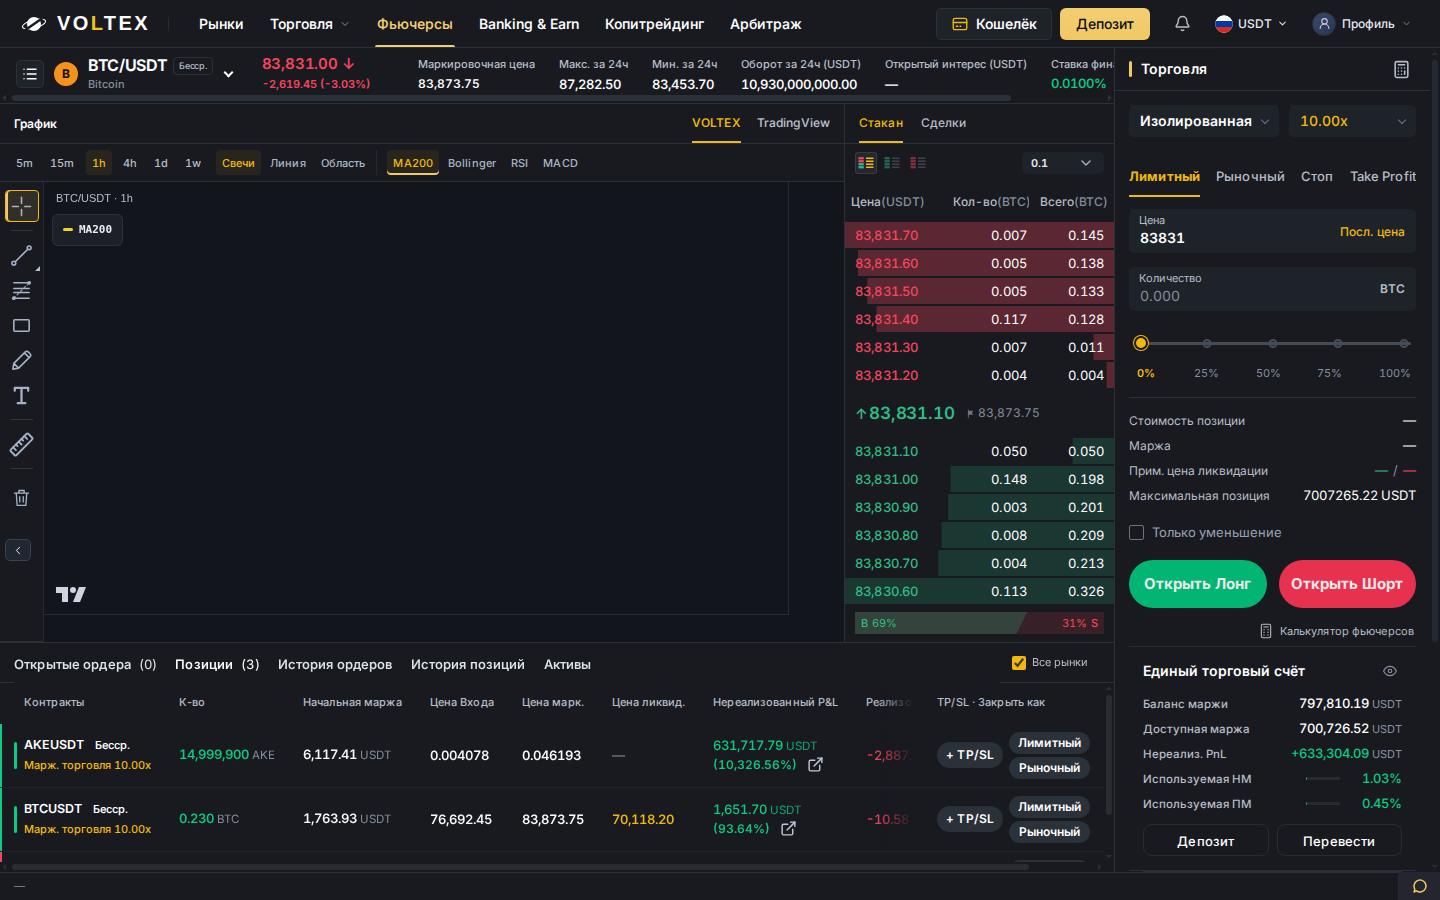
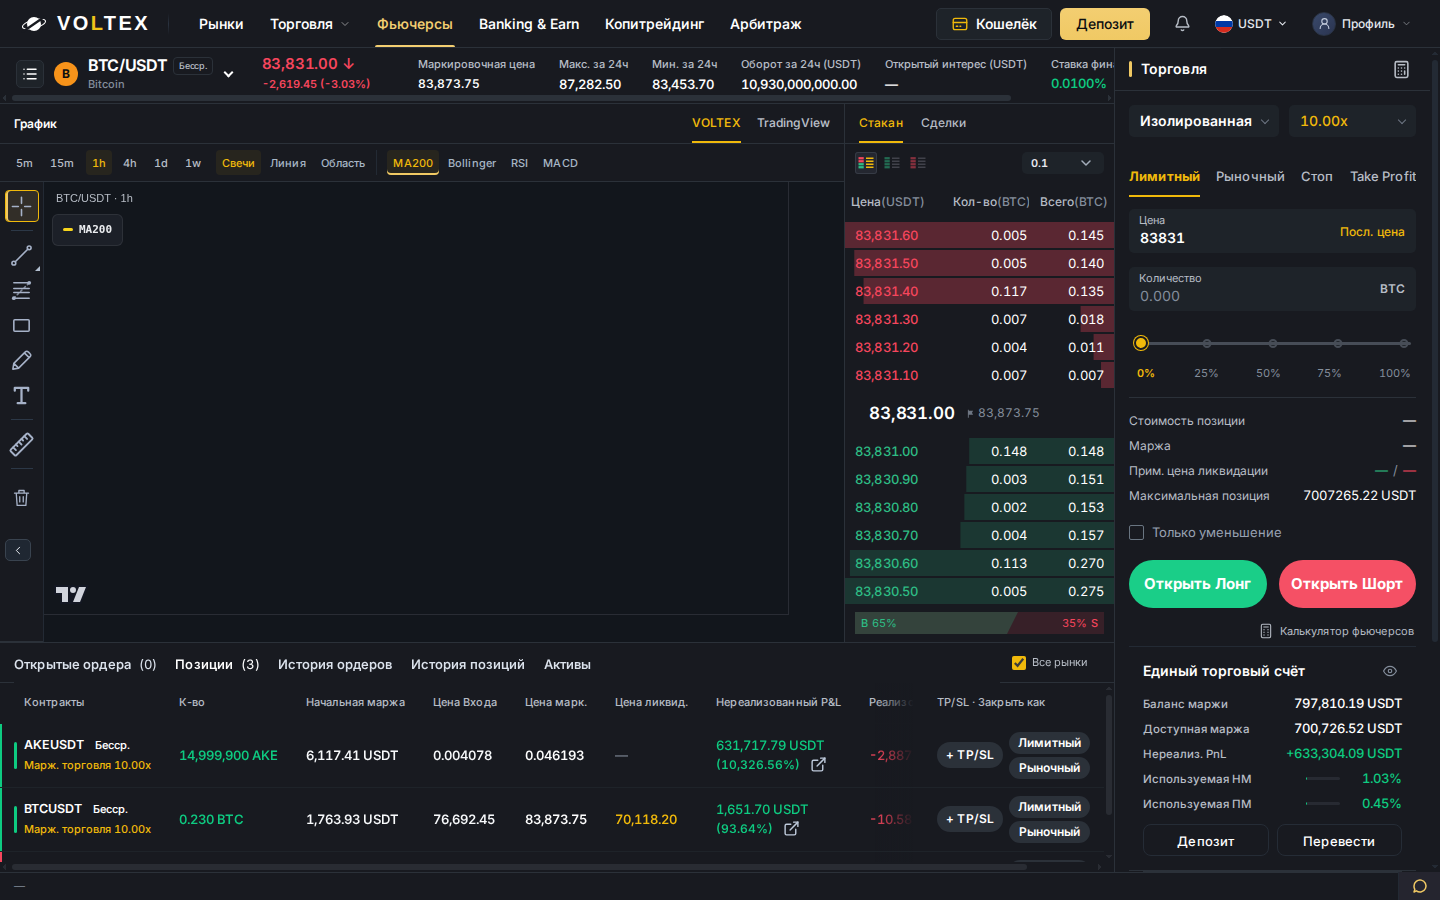
Units in their figure's colour; LONG/SHORT in the reference colours, never dimmed
Owner: not only the numbers — USDT too, and the buttons 1:1 with the
screenshot. Measured there: units share the number's colour and size;
LONG #1ace88, SHORT #f55065 at full strength with no quantity. Ours were
grey 11px units and #00c67c/#ff3453 at 90% opacity while disabled.

Claude-Session: https://claude.ai/code/session_01QYDaBPmAQT7kqxtv32nEHZ

diff --git a/frontend/src/pages/trade-terminal/ArchiveTerminalPreview.css b/frontend/src/pages/trade-terminal/ArchiveTerminalPreview.css
@@ -413,3 +413,17 @@
 #archive-terminal-preview { --text-primary:#ffffff; }
 #archive-terminal-preview :is(.reference-order-heading,.fcd-title) { color:var(--text-primary); }
 #archive-terminal-preview .rb-row > span:not(:first-of-type) { color:var(--text-primary); }
+/* Units take their figure's colour and size, as on the reference: «0.230 BTC»
+   green, «19,741.70 USDT» white, «2,102.4412 USDT» green — measured off the
+   owner's Bybit screenshot, the unit's glyphs match the number's. Ours were
+   a smaller tertiary grey (owner: «не тільки цифри контрасніші, але і usdt»). */
+#archive-terminal-preview :is(.futures-position-unit,.futures-account-stat .fa-unit,.fcd-unit) { color:inherit; font-size:inherit; font-weight:inherit; opacity:1; }
+#archive-terminal-preview .futures-positions-table :is(.futures-position-money,.futures-position-realized)[data-unit]::after { color:inherit; font-size:inherit; font-weight:inherit; opacity:1; }
+/* LONG / SHORT in the reference's colours, and never dimmed (owner: «кнопки
+   контрасніші, такі ж самі як на скріні 1:1»). Read off that screenshot:
+   #1ace88 and #f55065 with white 700 labels, full strength even with no
+   quantity entered. Ours showed #00c67c / #ff3453 at 90% opacity while
+   disabled. Disabled still refuses the click and keeps its cursor. */
+#archive-terminal-preview .fo-submitPair .buy { background:#1ace88; color:#fff; }
+#archive-terminal-preview .fo-submitPair .sell { background:#f55065; color:#fff; }
+#archive-terminal-preview .fo-submitPair button:disabled { opacity:1; }

diff --git a/frontend/src/lib/__tests__/futuresVisualPolish.test.ts b/frontend/src/lib/__tests__/futuresVisualPolish.test.ts
@@ -153,6 +153,21 @@ describe('5. text contrast at the reference level', () => {
     expect(CSS).not.toMatch(/#archive-terminal-preview \{[^}]*--archive-label:#fff/);
   });
 
+  it('gives units their figure\'s colour and size, and LONG / SHORT the reference colours at full strength', () => {
+    const units = CSS.match(/#archive-terminal-preview :is\(\.futures-position-unit,\.futures-account-stat \.fa-unit,\.fcd-unit\) \{([^}]*)\}/);
+    expect(units).not.toBeNull();
+    expect(units![1]).toContain('color:inherit');
+    expect(units![1]).toContain('font-size:inherit');
+    // The later rule wins: the last .buy / .sell / :disabled declarations in the sheet.
+    const last = (selector: string) => {
+      const all = [...CSS.matchAll(new RegExp(`(?:^|\\n)${selector.replace(/[.*+?^${}()|[\]\\]/g, '\\$&')} \\{([^}]*)\\}`, 'g'))];
+      return all[all.length - 1][1];
+    };
+    expect(last('#archive-terminal-preview .fo-submitPair .buy')).toContain('background:#1ace88');
+    expect(last('#archive-terminal-preview .fo-submitPair .sell')).toContain('background:#f55065');
+    expect(last('#archive-terminal-preview .fo-submitPair button:disabled')).toContain('opacity:1');
+  });
+
   it('brightens the terminal chart axis to the reference tone', () => {
     const chart = read('components/PriceChart.tsx');
     expect(chart).toContain("textColor: terminal ? '#f3f4f6' : '#a3adba'");

diff --git a/docs/AI_HANDOFF.md b/docs/AI_HANDOFF.md
@@ -3635,3 +3635,4 @@ withdrawal was placed.
 - Computed in the combined owner preview at 1440 after: ticker values, pair, chart heading, «Торговля», order-figure values, account heading, contract values and title, the position contract, the book total — all `rgb(255,255,255)`; captions `rgb(183,189,198)` as before. The chart canvas does not render in the headless harness, so the axis colour is verified by the option value only. Screenshots `docs/qa/text-contrast/before-1440.png`, `after-1440.png`.
 - Checks: frontend `tsc` PASS; 9 suites incl. `futuresVisualPolish` (new §5 pins), `futuresUiPolish`, `futuresReferenceRow`, `orderPanelNavCleanup`, `terminalDesignSystem`, `futuresTickerHeader`, `futuresFinalPolish` 206/206; production build PASS; `qa-futures-visual-polish.cjs` PASS.
 - Preserved: #230's token block untouched (this overrides it later in the cascade); #227/#228 hard-coded near-whites (`#f4f6f8`, `#f8fafc`) left as they are. Merge note: appends to the end of `ArchiveTerminalPreview.css`; if another open PR also appends there, keep both. Not deployed.
+- **Follow-up (owner, with a second Bybit screenshot `images/28.webp`): «Не тільки цифри контрасніші, але і usdt також. І кнопки контрасніші, такі ж самі як на скріні 1:1».** Measured there: every unit takes its number's colour and size («0.230 BTC» both green, «19,741.70 USDT» both white 235–240, «2,102.4412 USDT» both green); LONG / SHORT are `#1ace88` / `#f55065` (median over the button face) with white 700 labels at full strength although the quantity is empty. Ours: units in tertiary grey at 11–11.5px; buttons `#00c67c` / `#ff3453` at `opacity:.9` while disabled — which is exactly what the owner's screenshot shows (0.9 × our colour over the panel = the measured rgb(3,182,115) / rgb(232,50,77)). Appended to the same block: `.futures-position-unit`, the account's `.fa-unit`, the contract details' `.fcd-unit` and the P&L `[data-unit]::after` inherit colour, size and weight at opacity 1; `.fo-submitPair .buy` `#1ace88`, `.sell` `#f55065`, `button:disabled { opacity:1 }` (still disabled, still `not-allowed`). Measured: the positions table's sideways overflow at 1440 68 → 71px. New `futuresVisualPolish` §5 pin. Checks: 10 suites 256/256 (`walletUxRefinement` fails 22/41 identically on clean main); production build PASS; `qa-futures-bottom-panel.cjs` PASS; `qa-futures-visual-polish.cjs` PASS. Screenshot `docs/qa/text-contrast/after-1440.png` refreshed.
